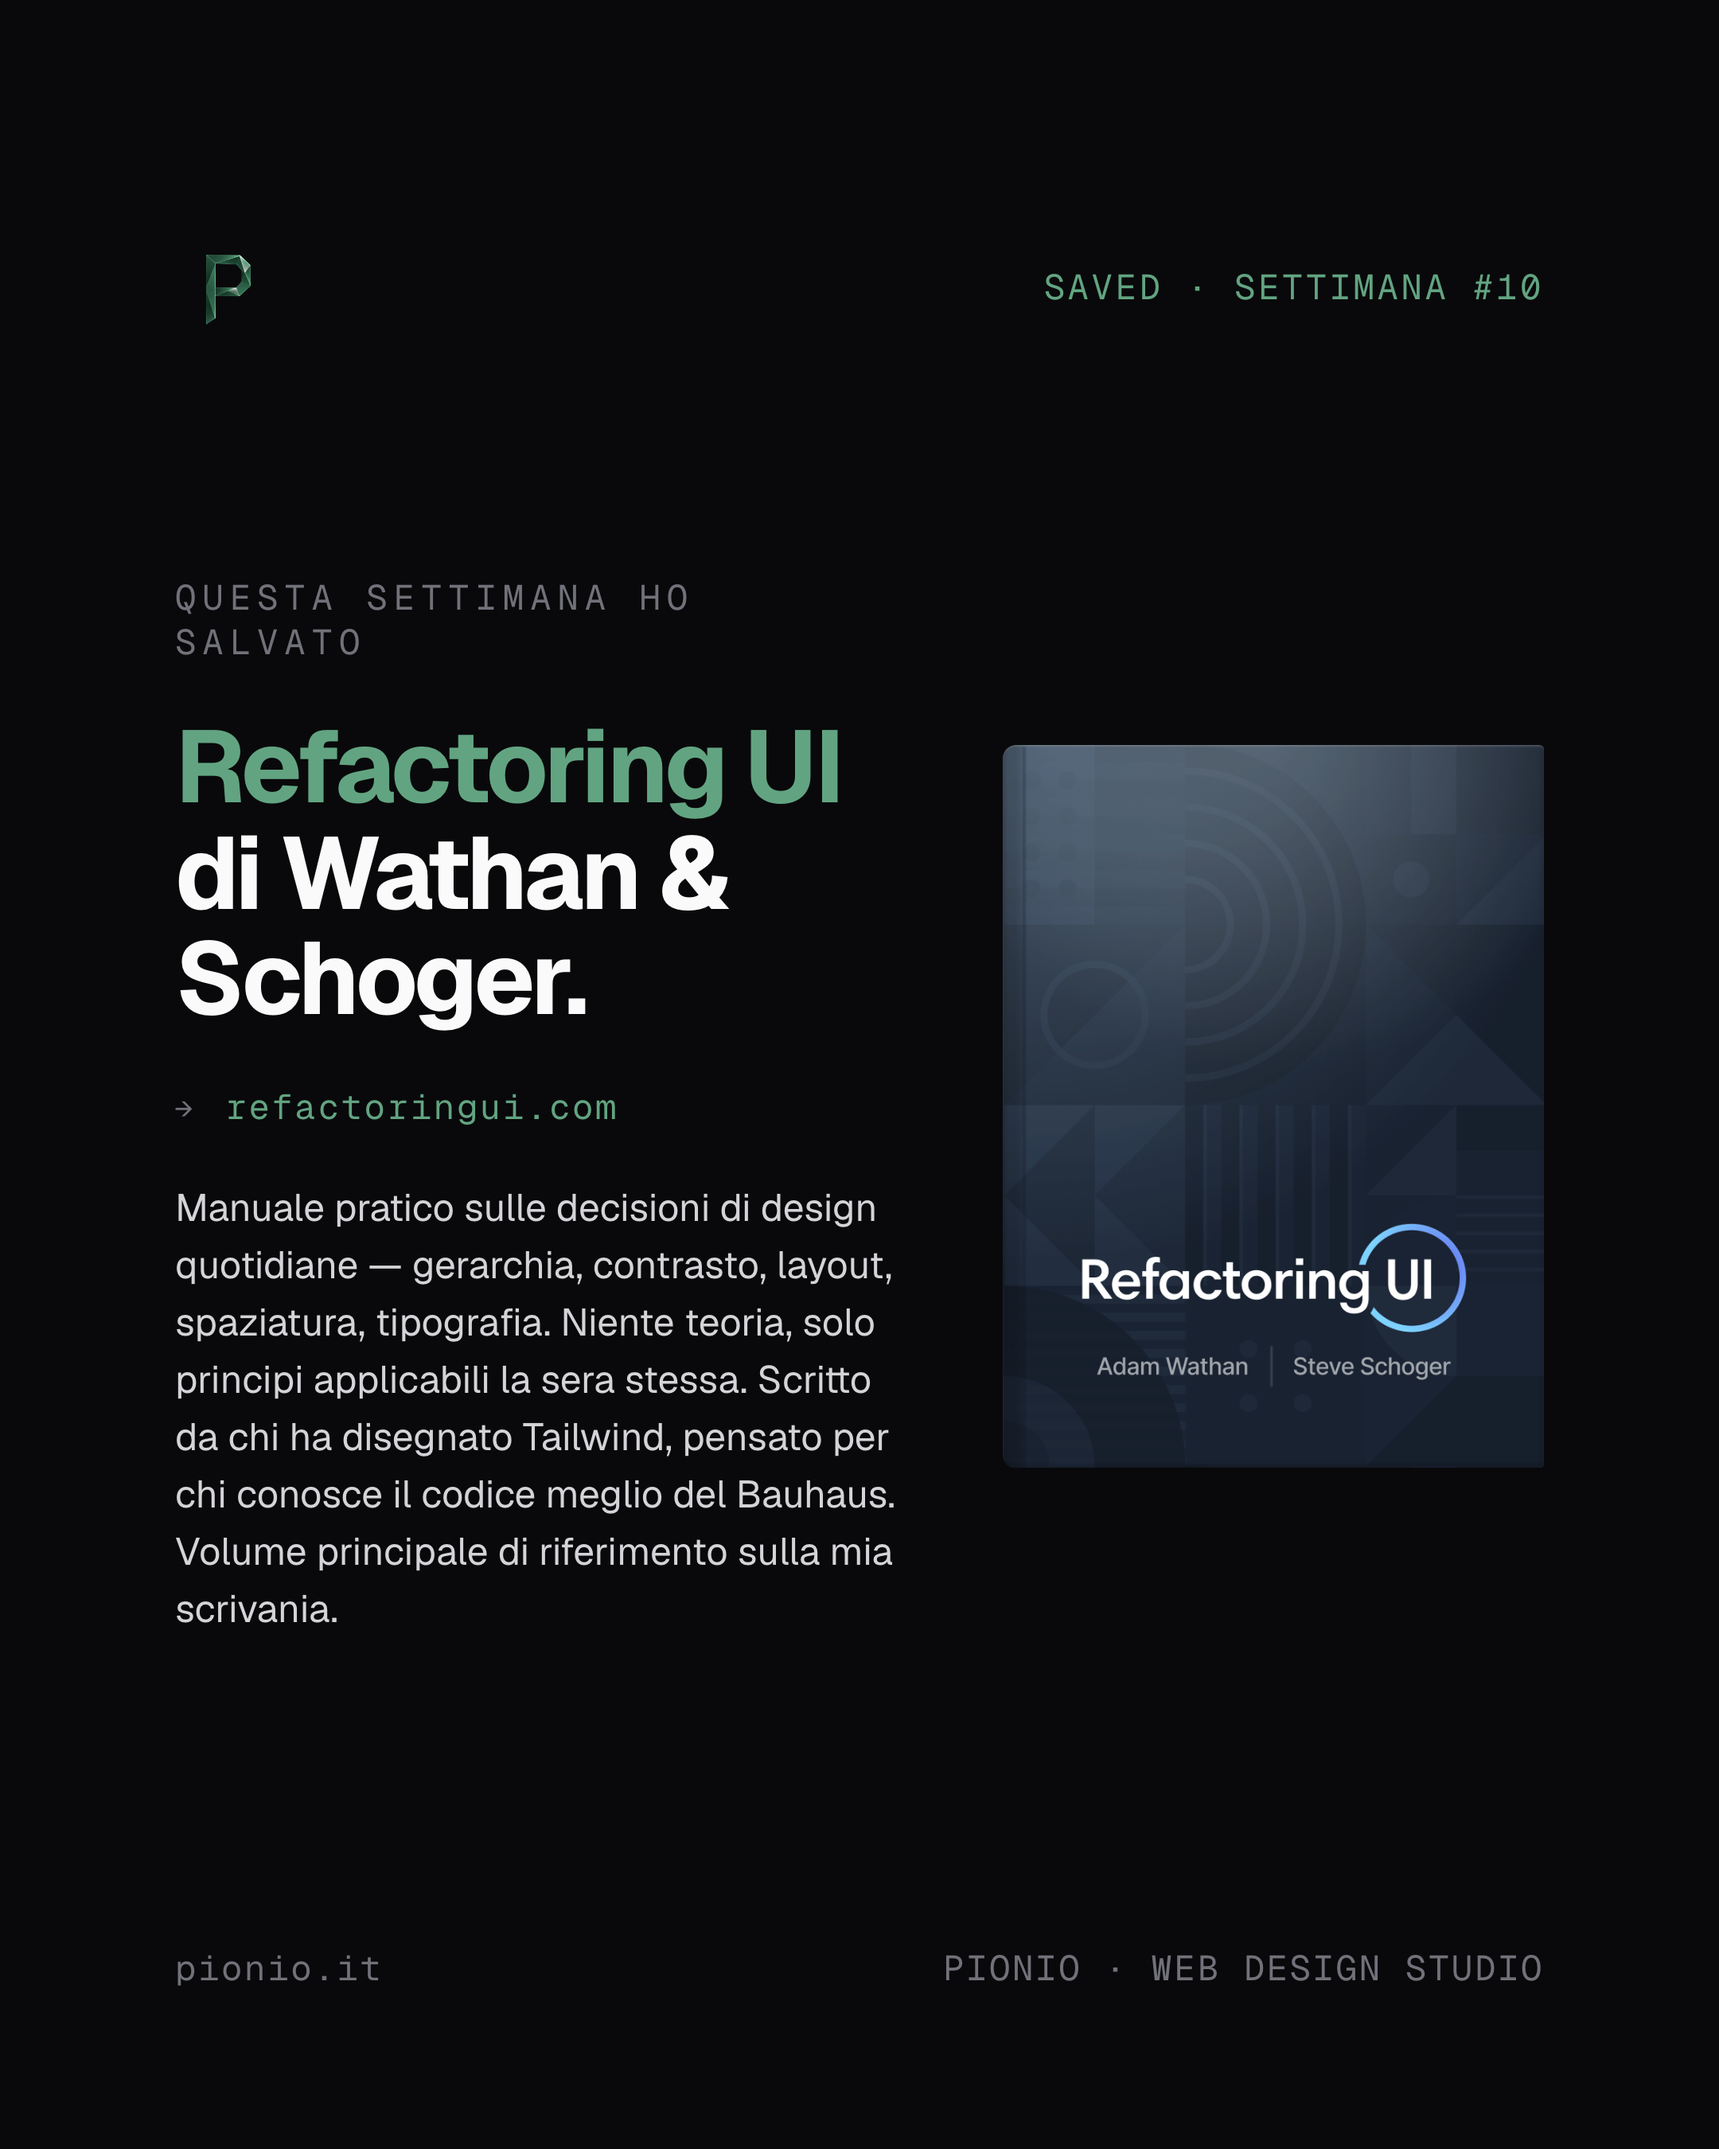
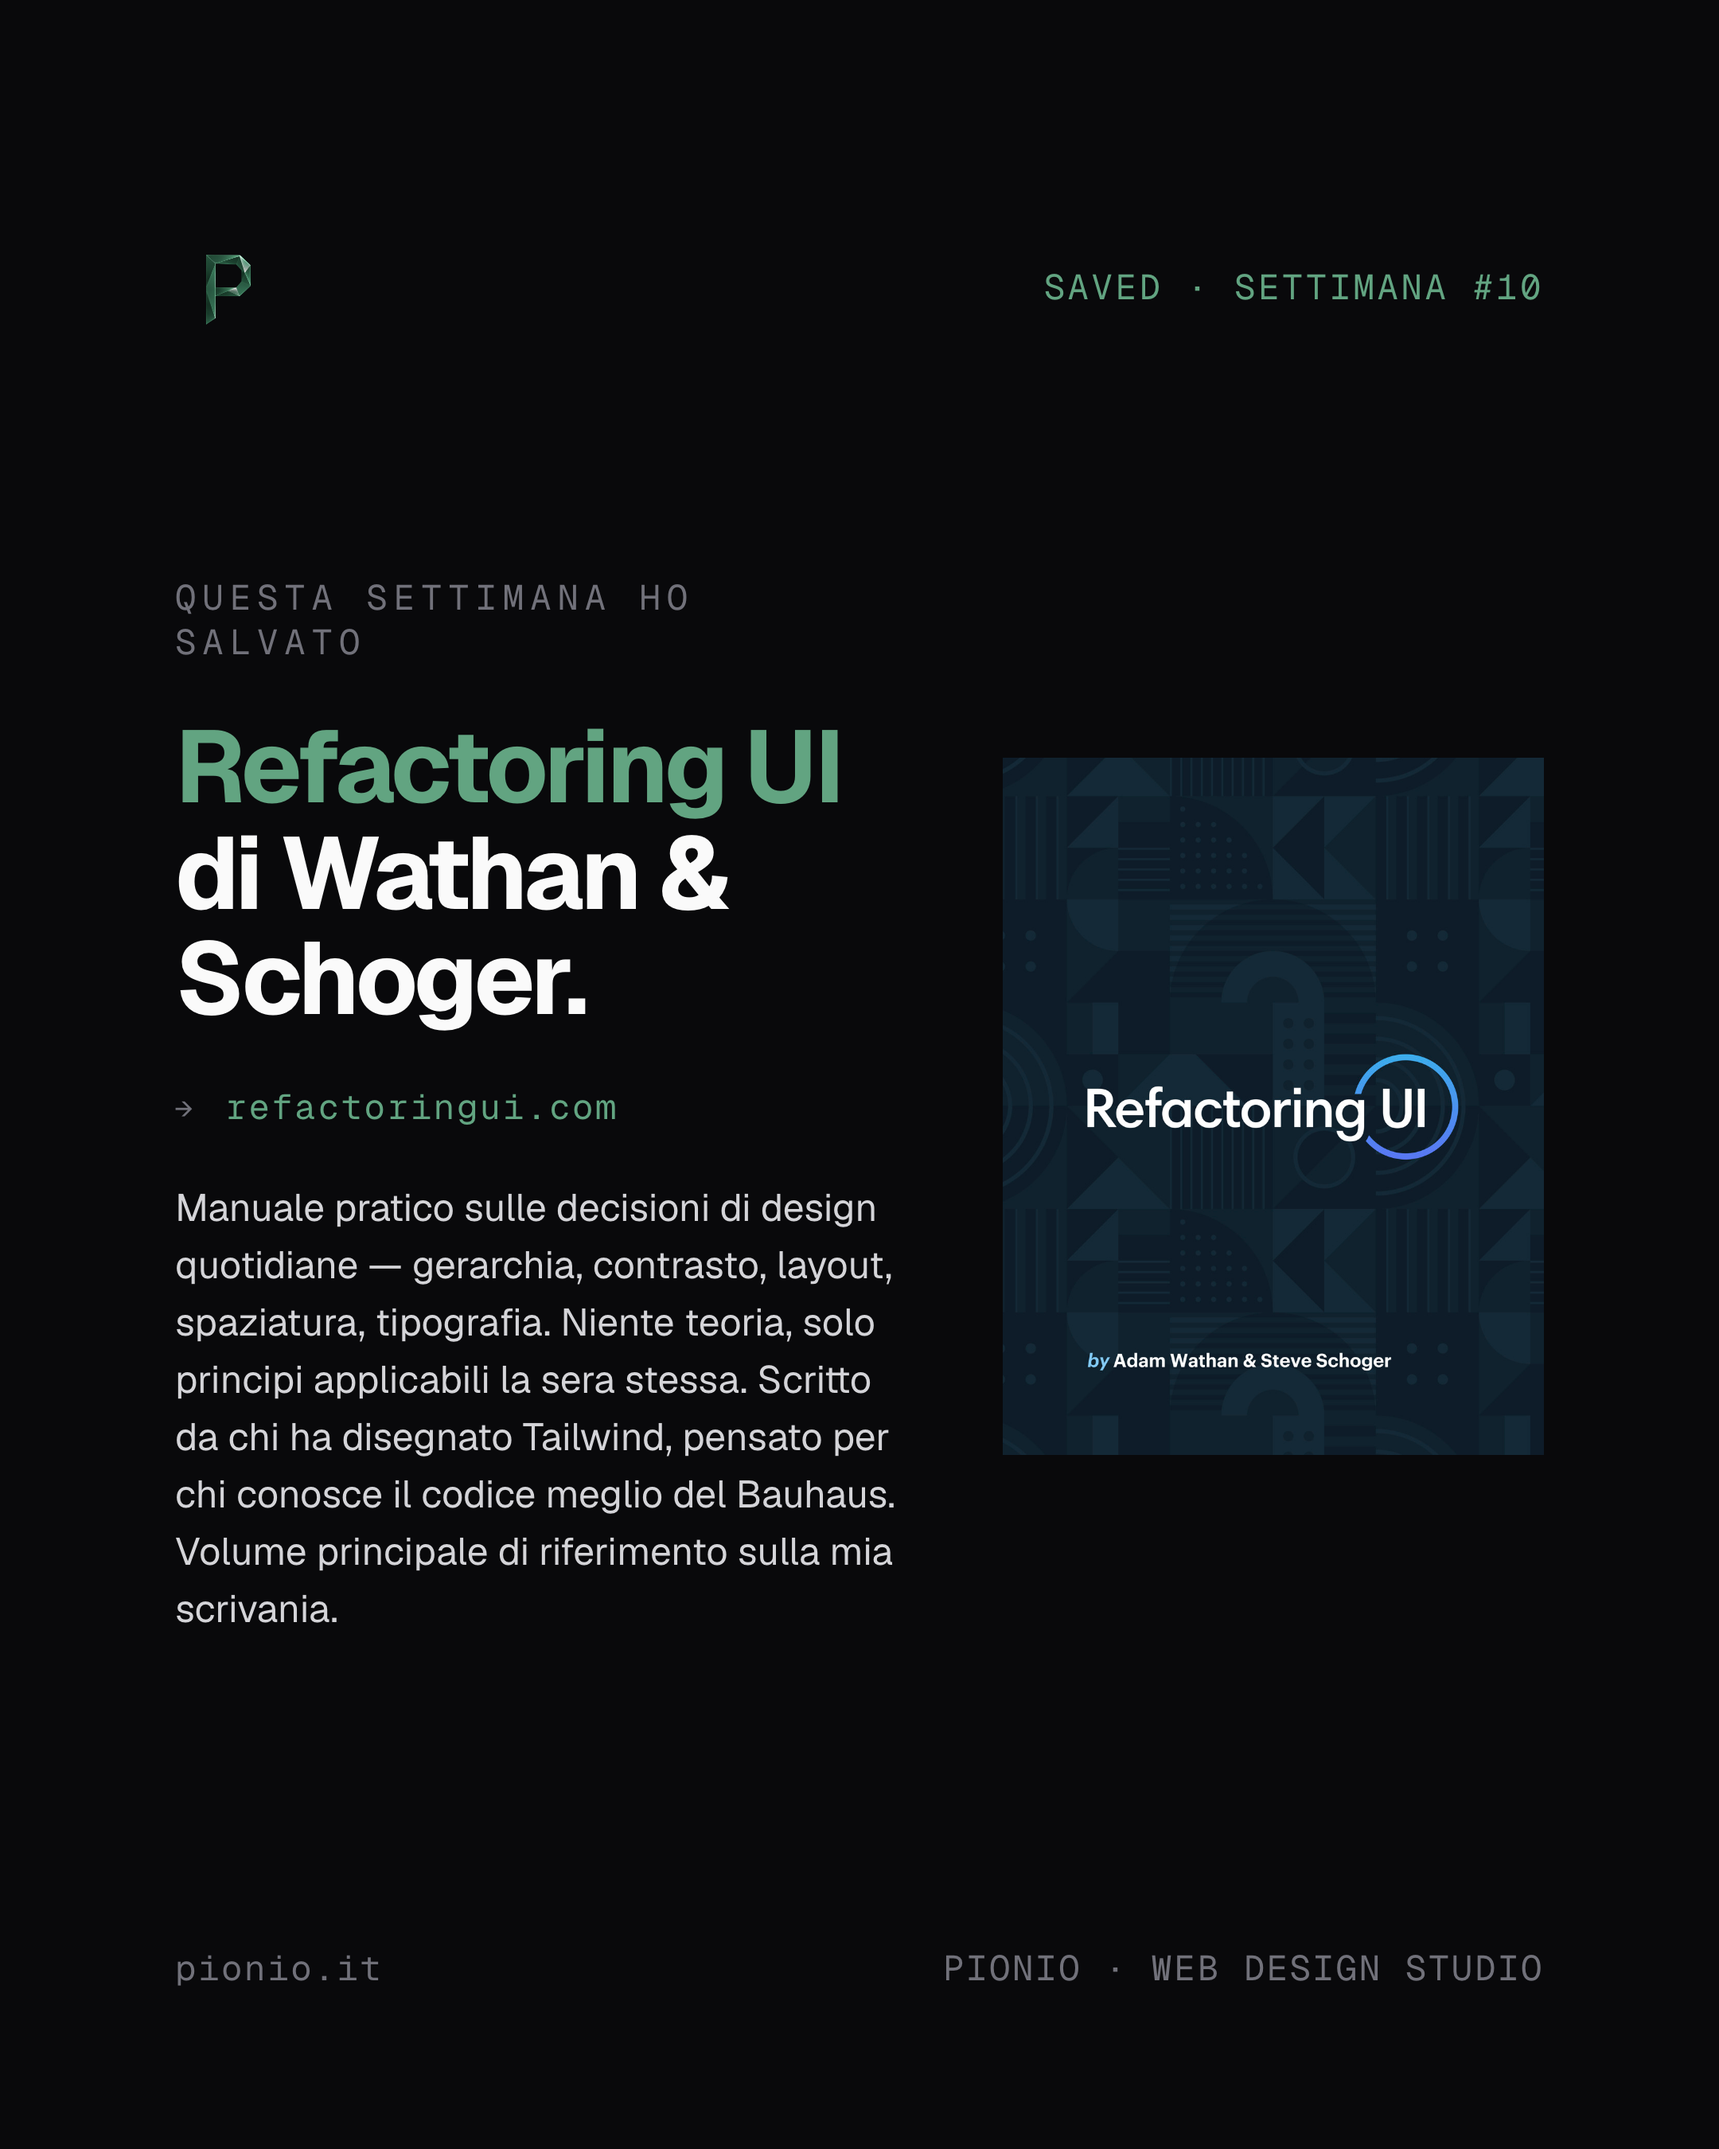
fix(instagram): Refactoring UI cover hi-res (1050×1350, era 758×1014)

Changed region(s): [[0.5583, 0.3422, 0.8995, 0.6844]]

diff --git a/instagram/content/settimana-10-lug-2026/6-sab-25-19-saved-refactoring-ui/src/slides.html b/instagram/content/settimana-10-lug-2026/6-sab-25-19-saved-refactoring-ui/src/slides.html
@@ -57,7 +57,7 @@
       </p>
     </div>
     <div class="asset cover">
-      <img src="../assets/cover-asset.png" alt="">
+      <img src="../assets/cover-asset.jpg" alt="">
     </div>
   </div>
   <div class="footer">
